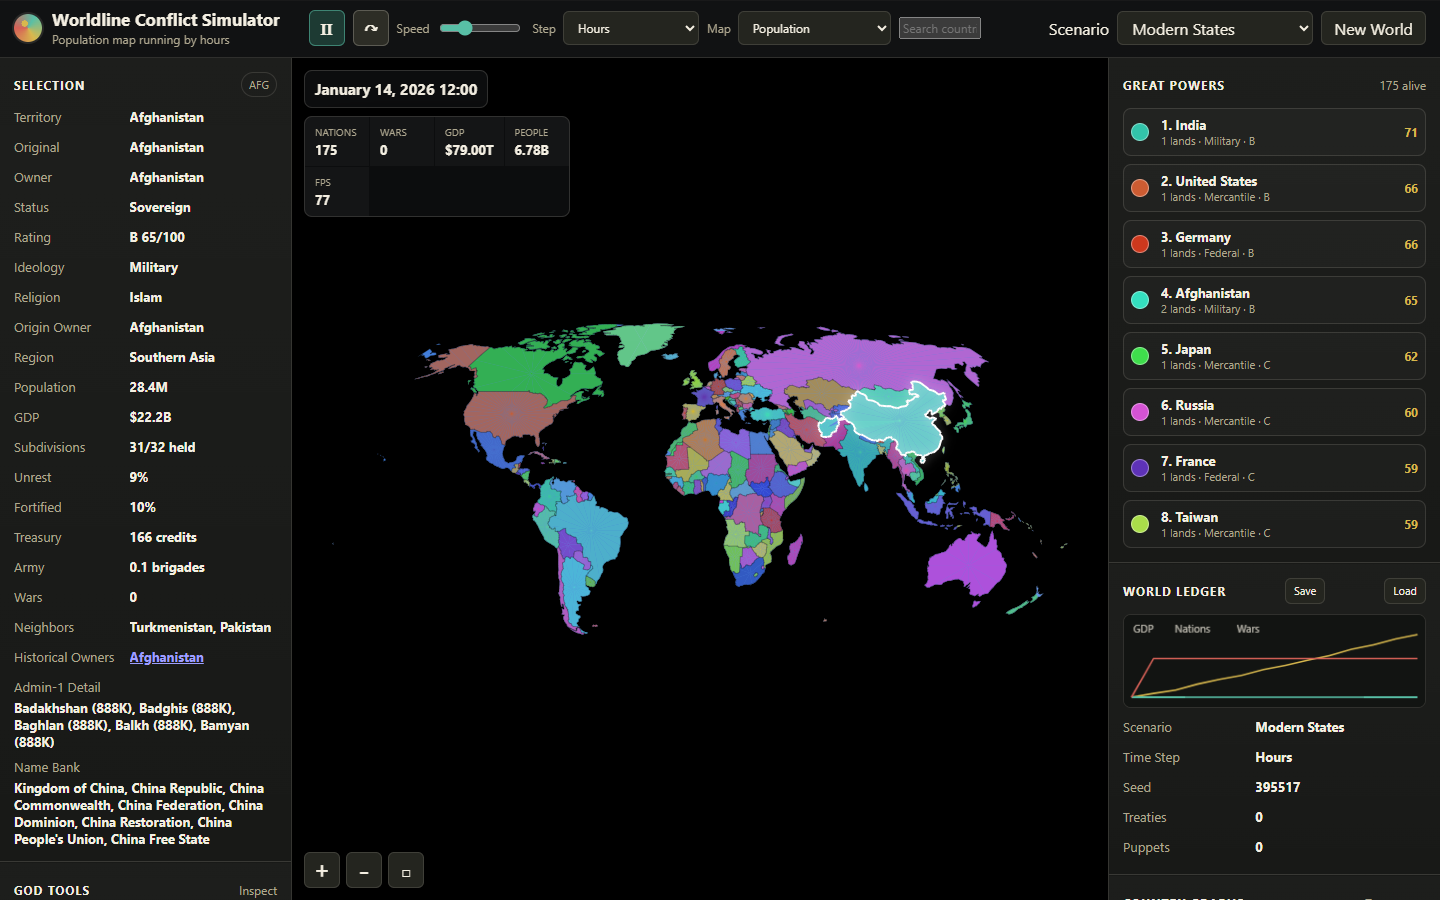
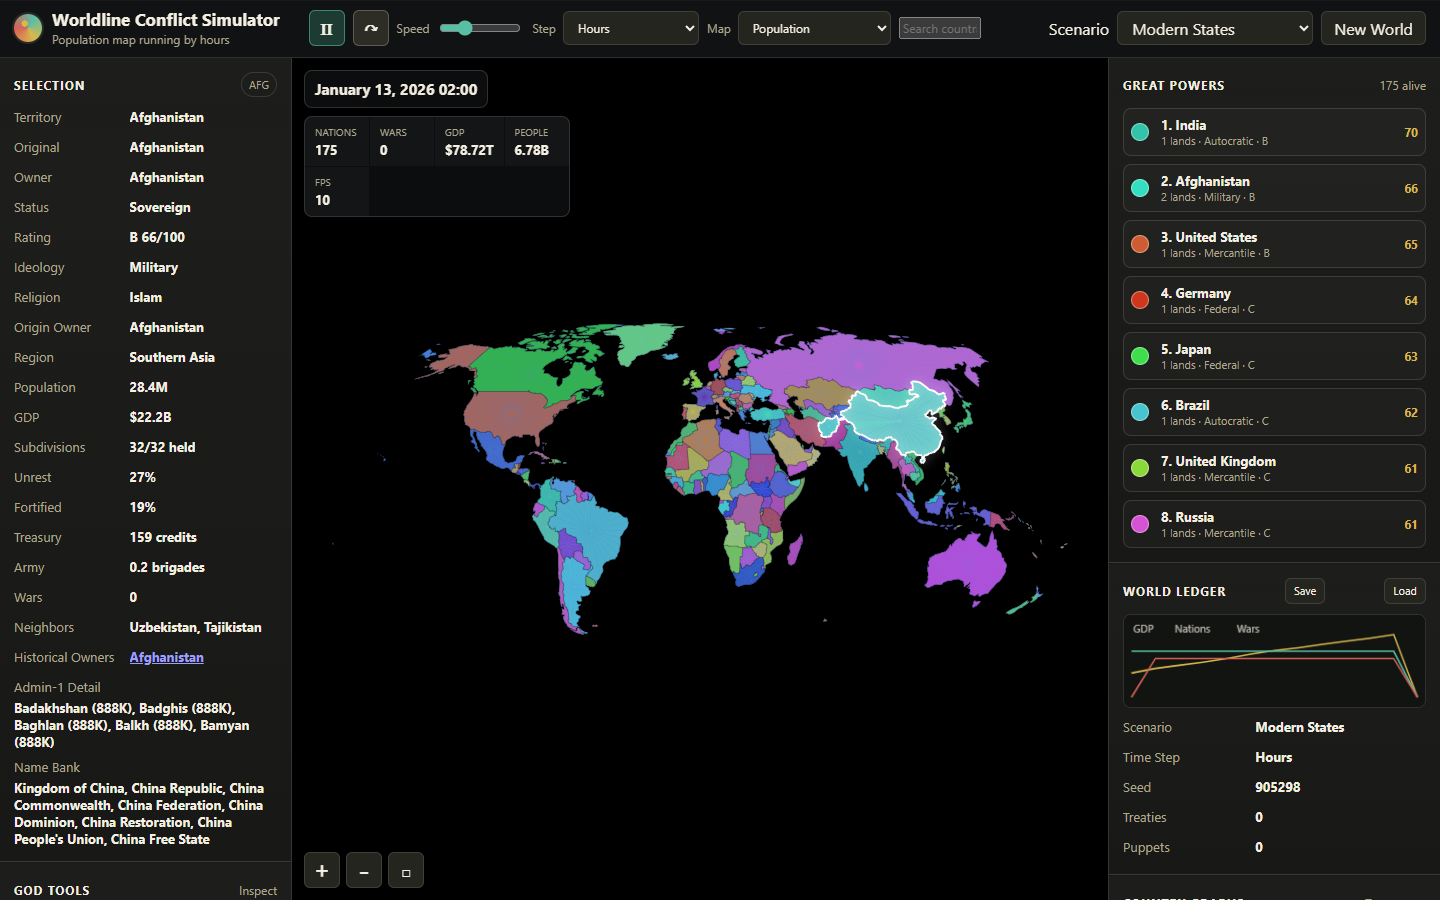
yay

diff --git a/src/main.js b/src/main.js
@@ -527,6 +527,15 @@ function subdivisionControlRatio(territory, nationId) {
   return subdivisionControlCount(territory, nationId) / territory.subdivisions.length;
 }
 
+function totalSubdivisionControlCount(nationId) {
+  const nation = state.nations.get(nationId);
+  if (!nation) return 0;
+  return nation.territories.reduce((total, territoryId) => {
+    const territory = state.territories[territoryId];
+    return total + subdivisionControlCount(territory, nationId);
+  }, 0);
+}
+
 function transferSubdivisionControl(territory, toNationId, amount = 1, preferredIndexes = null, reason = "annexed") {
   if (!territory.subdivisions?.length) return 0;
   let moved = 0;
@@ -2597,7 +2606,8 @@ function maybeResolveWar(a, b, duration, monthScale = 1) {
     (occupiedShare > 0.5 ? 0.18 : 0);
 
   if (duration > 1.5 && seriousOccupation && rng() < scaledChance(collapseRisk, monthScale)) {
-    if (occupiedShare > 0.55 || (capitalLost && stronger.ideology.aggression > 0.72)) {
+    const annexationThreshold = 0.55 - stronger.ideology.aggression * 0.2; // Aggressive nations annex at lower occupation levels
+    if (occupiedShare > annexationThreshold || (capitalLost && stronger.ideology.aggression > 0.72)) {
       const territories = weaker.territories.slice();
       for (const territoryId of territories) {
         transferTerritory(territoryId, stronger.id, { quiet: true });
@@ -2824,8 +2834,20 @@ function tryPeacefulUnifications(monthScale = 1) {
       if (relation < 72) continue;
       const combinedAmbition = (a.ambition + b.ambition) / 2;
       const powerRatio = Math.max(a.power / Math.max(1, b.power), b.power / Math.max(1, a.power));
+      
+      // Cultural and ideological bonuses for unification
+      const sameReligion = a.religion === b.religion ? 0.015 : 0;
+      const ideologicalSimilarity = 1 - Math.abs(a.ideology.aggression - b.ideology.aggression);
+      const ideologyBonus = ideologicalSimilarity * 0.01;
+      
+      // Geographic proximity bonus (same continent)
+      const aContinents = new Set(a.territories.map(tid => state.territories[tid]?.continent));
+      const bContinents = new Set(b.territories.map(tid => state.territories[tid]?.continent));
+      const sharedContinents = [...aContinents].filter(c => bContinents.has(c)).length;
+      const continentBonus = sharedContinents > 0 ? 0.008 : 0;
+      
       const base = 0.006;
-      const chance = base + clamp((relation - 72) / 240, 0, 0.06) - combinedAmbition * 0.01 + (powerRatio > 2 ? 0.02 : 0);
+      const chance = base + clamp((relation - 72) / 240, 0, 0.06) - combinedAmbition * 0.01 + (powerRatio > 2 ? 0.02 : 0) + sameReligion + ideologyBonus + continentBonus;
       if (rng() < scaledChance(chance, monthScale)) {
         const absorber = a.power >= b.power ? a : b;
         const absorbed = absorber.id === a.id ? b : a;
@@ -2842,7 +2864,7 @@ function tryPeacefulUnifications(monthScale = 1) {
 
 function cleanupDefeatedNations() {
   for (const nation of state.nations.values()) {
-    if (nation.territories.length) continue;
+    if (totalSubdivisionControlCount(nation.id) > 0) continue;
     if (nation.alive) pushEvent("diplomacy", `${nation.name} leaves the world stage.`);
     nation.alive = false;
     for (const other of state.nations.values()) {

diff --git a/README.md b/README.md
@@ -52,10 +52,13 @@ If the Windows `node` app alias is blocked, use any local static server from thi
 ## Notes
 
 - Caribbean and other island countries can now attack and be attacked via naval invasions, allowing for more dynamic global conflicts.
+- Nations are removed from the simulation when they lose control of all their subdivisions, not just when they lose all territories.
+- Peaceful unifications now consider cultural factors like shared religion, ideological similarity, and geographic proximity.
+- War-time annexations are influenced by the victor's ideology - aggressive nations are more likely to fully annex defeated enemies rather than leaving them as puppets.
 - GDP falls during wars due to reduced trade access, increased instability, and war exhaustion penalties in the economy simulation.
-- WWII
 
 
-## Notes
+
+
 
 